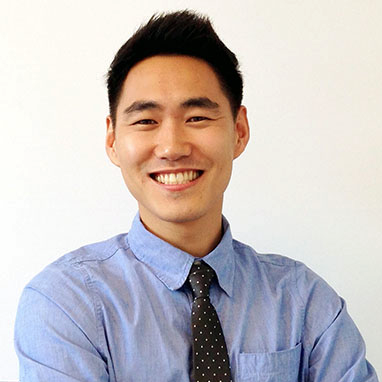
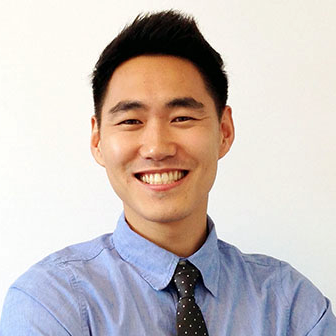
all team photos and added custom css

diff --git a/index.html b/index.html
@@ -9,6 +9,8 @@
 
     <title>CSGSA</title>
 
+    <link rel="shortcut icon" type="image/x-icon" href="./img/favicon.png" />
+
     <!-- Bootstrap Core CSS -->
     <link href="css/bootstrap.min.css" rel="stylesheet" type="text/css">
 
@@ -18,7 +20,8 @@
     <!-- CSGSA theme CSS -->
     <link href="css/style.css" rel="stylesheet">
 	<link href="color/default.css" rel="stylesheet">
-    <link rel="shortcut icon" type="image/x-icon" href="./img/favicon.png" />
+    <link href="css/csgsa.css" rel="stylesheet">
+
 
 </head>
 
@@ -101,60 +104,60 @@
 			</div>
 		</div>
         <div class="row">
-            <div class="col-md-2 col-md-offset-1">
+            <div class="col-md-15 col-sm-3">
 				<div class="wow bounceInUp" data-wow-delay="0.2s">
                 <div class="team boxed-grey">
                     <div class="inner">
-						<h5>Your Name</h5>
-                        <p class="subtitle">President</p>
+						<h5>Hadi</h5>
+                        <p class="subtitle">President</p><br/>
                         <div class="avatar"><img src="img/team/hadi.jpg" alt="" class="img-responsive img-circle" /></div>
                     </div>
                 </div>
 				</div>
             </div>
-			<div class="col-md-2">
+			<div class="col-md-15 col-sm-3">
 				<div class="wow bounceInUp" data-wow-delay="0.5s">
                 <div class="team boxed-grey">
                     <div class="inner">
-						<h5>Your name</h5>
-                        <p class="subtitle">Vice President</p>
-                        <div class="avatar"><img src="img/team/4.jpg" alt="" class="img-responsive img-circle" /></div>
+						<h5>Behrang</h5>
+                        <p class="subtitle">Vice President</p><br/>
+                        <div class="avatar"><img src="img/team/Behrang.jpg" alt="" class="img-responsive img-circle" /></div>
 
                     </div>
                 </div>
 				</div>
             </div>
-			<div class="col-md-2">
+			<div class="col-md-15 col-sm-3">
 				<div class="wow bounceInUp" data-wow-delay="0.8s">
                 <div class="team boxed-grey">
                     <div class="inner">
-						<h5>Your name</h5>
-                        <p class="subtitle">Title</p>
-                        <div class="avatar"><img src="img/team/4.jpg" alt="" class="img-responsive img-circle" /></div>
+						<h5>Kinjal</h5>
+                        <p class="subtitle">Finance Officer / Task Manager</p>
+                        <div class="avatar"><img src="img/team/Kinjal.png" alt="" class="img-responsive img-circle" /></div>
 
                     </div>
                 </div>
 				</div>
             </div>
-			<div class="col-md-2">
-				<div class="wow bounceInUp" data-wow-delay="1s">
-                <div class="team boxed-grey">
-                    <div class="inner">
-						<h5>Name</h5>
-                        <p class="subtitle">Title</p>
-                        <div class="avatar"><img src="img/team/4.jpg" alt="" class="img-responsive img-circle" /></div>
-
-                    </div>
-                </div>
-				</div>
-            </div>
-            <div class="col-md-2">
+			<div class="col-md-15 col-sm-3">
 				<div class="wow bounceInUp" data-wow-delay="1.2s">
                 <div class="team boxed-grey">
                     <div class="inner">
-						<h5>Name</h5>
-                        <p class="subtitle">Title</p>
-                        <div class="avatar"><img src="img/team/4.jpg" alt="" class="img-responsive img-circle" /></div>
+						<h5>Kyeongan (Karl)</h5>
+                        <p class="subtitle">Public Relations Officer / Web Administrator</p>
+                        <div class="avatar"><img src="img/team/karl.png" alt="" class="img-responsive img-circle" /></div>
+
+                    </div>
+                </div>
+				</div>
+            </div>
+            <div class="col-md-15 col-sm-3">
+				<div class="wow bounceInUp" data-wow-delay="1s">
+                <div class="team boxed-grey">
+                    <div class="inner">
+						<h5>Abdullah</h5>
+                        <p class="subtitle">Seminar Manager</p><br/>
+                        <div class="avatar"><img src="img/team/Abdullah.jpg" alt="" class="img-responsive img-circle" /></div>
 
                     </div>
                 </div>

diff --git a/css/csgsa.css b/css/csgsa.css
@@ -1,0 +1,34 @@
+/* overriding by Kyeongan on 10/22/2015 */
+
+.col-xs-15,
+.col-sm-15,
+.col-md-15,
+.col-lg-15 {
+    position: relative;
+    min-height: 1px;
+    padding-right: 10px;
+    padding-left: 10px;
+}
+
+.col-xs-15 {
+    width: 20%;
+    float: left;
+}
+@media (min-width: 768px) {
+.col-sm-15 {
+        width: 20%;
+        float: left;
+    }
+}
+@media (min-width: 992px) {
+    .col-md-15 {
+        width: 20%;
+        float: left;
+    }
+}
+@media (min-width: 1200px) {
+    .col-lg-15 {
+        width: 20%;
+        float: left;
+    }
+}
